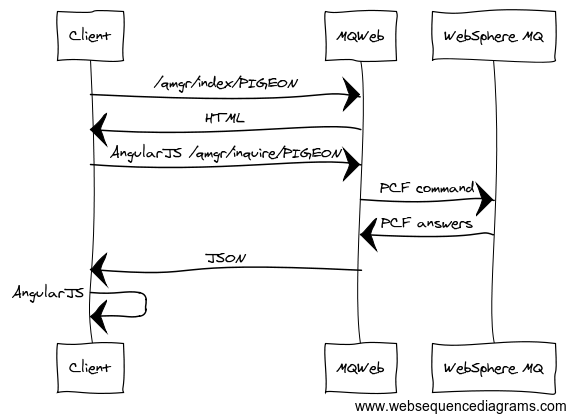
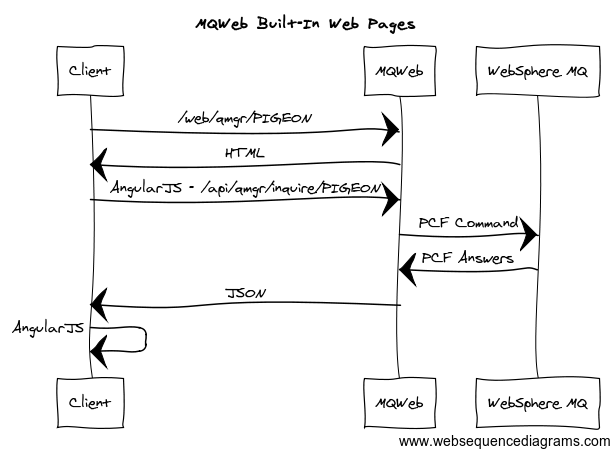
Create separate API pages

Changed region(s): [[0.0, 0.0, 1.0, 1.0], [0.1502, 0.0, 0.2102, 0.029]]

diff --git a/features.md b/features.md
@@ -9,52 +9,33 @@ Features
 > The documented features are part of the upcoming release 0.0.9
 > This page is still a work in progress ...
 
-MQWeb uses the MVC pattern. Models are JSON objects that represents queues,
-channels, messages and other WebSphere MQ objects. When the built-in HTML pages 
-are used, [AngularJS](http://angularjs.org) is used to transform the JSON model 
-objects into a view in the browser. 
+MQWeb can be used in two ways:
 
-<img src="{{ site.baseurl }}/img/mqwebsequence.png" style="text-align:center" alt="MQWeb Sequence Diagram" />
+Built-in HTML
+-------------
 
-MQWeb uses the HTTPServer class from [POCO](http://www.pocoproject.org). 
-This class uses request handlers to handle incoming requests. MQWeb has three 
-handlers.
+MQWeb has its own HTML pages which can be viewed by surfing to the web controller.
+This controller can be reached by using `web` as first part of the URL:
 
-##StaticRequestHandler
+    http://<mqwebhost:port>/web/qmgr/PIGEON
 
-This request handler is called when the URI starts with `static` and is only
-used when the built-in HTML pages are used. This handler is responsible for
-returning style sheets, images, scripts, ... In other words: it returns static
-content.
+The built-in HTML pages use [AngularJS](http://angularjs.org) to call the API's
+of MQWeb and to transform the JSON objects into HTML.
 
-##DenyRequestHandler
+API
+---
 
-This handler is called when MQWeb detects an incoming request that needs to
-be blocked. It will always return 403 Forbidden.
-  
-##ControllerRequestHandler
+The web API of MQWeb sends a PCF command to WebSphere MQ and returns the answer
+ as JSON objects. The API can be reached by using `api` as first part of the 
+ URL:
 
-This handler is responsible for creating the controller that handles a request
-for a WebSphere MQ object. Each type of WebSphere MQ object has its own
-controller. A controller has actions that are called based on the URI. For
-example: the URI `/queue/inquire` will call the inquire action on the 
-`QueueController`. An action needs some parameters to know which
-WebSphere MQ object to use. These parameters are passed as path of the URI.
-The first parameter is always the name of the queuemanager. Other parameters 
-depends on the called action and are documented on this page. For example: 
-`/queue/inquire/PIGEON` will return all queues from the queuemanager PIGEON. 
-Properties of WebSphere MQ objects are returned with the name as documented 
-in the WebSphere MQ information center. For example: The property of the 
-current queue depth of a queue will have the name `CurrentQDepth`.
+	http://<mqwebhost:port>/api/queue/inquire/PIGEON
 
-Query parameters are handled for GET or POST methods.
-
-All actions that return JSON objects can be used from any language. This sample 
-shows how to get a list of queues in PHP:
+The API's can be called from any language that supports HTTP clients:
 
 {% highlight php %}
    <?php
-        $url = "http://localhost:8081/queue/inquire/PIGEON";
+        $url = "http://localhost:8081/api/queue/inquire/PIGEON";
         $curl = curl_init();
         curl_setopt($curl, CURLOPT_URL, $url);
         curl_setopt($curl, CURLOPT_HEADER, false);
@@ -68,15 +49,10 @@ or in Python
 
 {% highlight python %}
         conn = httplib.HTTPConnection('localhost', 8081)
-        conn.request('GET', '/queue/inquire/PIGEON')
+        conn.request('GET', '/api/queue/inquire/PIGEON')
         res = conn.getresponse()
         data = json.loads(res.read())
 {% endhighlight %}
 
-The following table lists all available controllers.
-
-|Controller|URI path|
-|----------|--------|
-|[QueueManagerController](features/qmgr.html)|qmgr|
-|[QueueController](features/queue.html)|queue|
+Look at [API overview](/api/index.html) to see which api's are available.
 

diff --git a/docs/architecture.md b/docs/architecture.md
@@ -1,0 +1,49 @@
+---
+layout: default
+title: MQWeb &bull; Architecture
+doc_architecture: true
+---
+Architecture
+============
+
+> The documented features are part of the upcoming release 0.0.9
+> This page is still a work in progress ...
+
+<img src="{{ site.baseurl }}/img/mqwebsequence.png" style="text-align:center" alt="MQWeb Sequence Diagram" />
+
+MQWeb uses the HTTPServer class from [POCO](http://www.pocoproject.org). 
+This class uses request handlers to handle incoming requests. MQWeb has three 
+handlers.
+
+##StaticRequestHandler
+
+This request handler is called when the URI starts with `static` and is only
+used when the built-in HTML pages are used. This handler is responsible for
+returning style sheets, images, scripts, ... In other words: it returns static
+content.
+
+##DenyRequestHandler
+
+This handler is called when MQWeb detects an incoming request that needs to
+be blocked. It will always return 403 Forbidden.
+  
+##ControllerRequestHandler
+
+This handler is responsible for creating the controller that handles a request
+for a WebSphere MQ object. There are two types of controllers: the web controller
+and the api controller. The web controller is responsible of returning the
+HTML page for a WebSphere MQ object. The web controller will be called when the
+first part of the URI is `web`. The api controllers are responsible of sending 
+PCF commands to WebSphere MQ and to return the answer in JSON format. Each
+WebSphere MQ object has its own api controller. When the URI starts with `api`, 
+the second part of the URI will determine which api controller will be called. 
+For example: the URI `/api/queue/inquire` will call the inquire action on the 
+`QueueController`. An action needs some parameters to know which WebSphere MQ 
+object to use. These parameters are passed as part of the path of the URI. 
+The first parameter is always the name of the queuemanager. Other parameters 
+depends on the called action. For example: `/api/queue/inquire/PIGEON` will 
+return all queues from the queuemanager PIGEON. Properties of WebSphere MQ 
+objects are returned with the name as documented in the WebSphere MQ information 
+center. For example: The property of the current queue depth of a queue will 
+have the name `CurrentQDepth`. Some api's also allow the use of Query 
+parameters. More information on each api can be find on the api pages.

diff --git a/api/queue.md b/api/queue.md
@@ -1,40 +1,16 @@
 ---
 layout: default
 title: MQWeb &bull; QueueController
-features: true
+api: true
 hideSidebar: true
 ---
 QueueController
 ===============
 
-The first part of the URI must be `queue` to call the QueueController.
+The second part of the URI must be `queue` to call the QueueController.
 This controller can be used to get information from a queue.
 
 ##Actions
-
-###index
-
-Name
-: index
-
-Type
-: HTML
-
-Parameters
-: + **queueManager** 
-
-    The name of the queuemanager
-
-Example
-: `/queue/index/PIGEON`
-
-<div style="clear:both;"> </div>
-
-Shows a form to inquire a queuelist. It's possible to directly go to the detail 
-page of a queue. Pass the name of queue as fragment of the URI. MQWeb uses the 
-AngularJS [ngRoute](http://docs.angularjs.org/api/ngRoute) module to make this
-work. `/queue/index/PIGEON/#MQWEB.TEST.Q01` will show the detail page of queue
-`MQWEB.TEST.Q01`.
 
 ###inquire
 
@@ -77,9 +53,9 @@ Query Parameters
     When value is `true`, all temporary queues will be discarded.
 
 Example
-: `queue/inquire/PIGEON/MQWEB.TEST.Q1`  
-  `queue/inquire/PIGEON/*`  
-  `queue/inquire/PIGEON?queueName=*&queueDepth=1`
+: `/api/queue/inquire/PIGEON/MQWEB.TEST.Q1`  
+  `/api/queue/inquire/PIGEON/*`  
+  `/api/queue/inquire/PIGEON?queueName=*&queueDepth=1`
 
 <div style="clear:both;"> </div>
 

diff --git a/api/qmgr.md b/api/qmgr.md
@@ -1,36 +1,16 @@
 ---
 layout: default
 title: MQWeb &bull; QueueManagerController
-features: true
+api: true
 hideSidebar: true
 ---
 QueueManagerController
 ======================
 
-The first part of the URI must be `qmgr` to call the QueueManagerController.
+The second part of the URI must be `qmgr` to call the QueueManagerController.
 This controller can be used to get information from a queuemanager.
 
 ##Actions
-
-###index
-
-Name
-: index
-
-Type
-: HTML
-
-Parameters
-: + **queueManager** 
-
-    The name of the queuemanager
-
-Example
-: `/qmgr/index/PIGEON`
-
-<div style="clear:both"> </div>
-
-Shows a dashboard page for a queuemanager
 
 ###inquire
 
@@ -46,7 +26,7 @@ Parameters
     The name of the queuemanager
     
 Example
-: `/qmgr/inquire/PIGEON`
+: `/api/qmgr/inquire/PIGEON`
 
 <div style="clear:both"> </div>
 

diff --git a/docs/index.md b/docs/index.md
@@ -7,6 +7,8 @@ doc: true
 Documentation
 =============
 
+[Architecture](/docs/architecture.html)  
+[API's](/api/index.html)  
 [Building MQWeb](/docs/building.html)  
 [Configure MQWeb](/docs/configure.html)  
 [Security](/docs/security.html)  

diff --git a/api/index.md b/api/index.md
@@ -1,0 +1,11 @@
+---
+layout: default
+title: MQWeb &bull; API
+api: true
+---
+
+|Controller|URI path|
+|----------|--------|
+|[QueueManagerController](qmgr.html)|/api/qmgr|
+|[QueueController](queue.html)|/api/queue|
+
